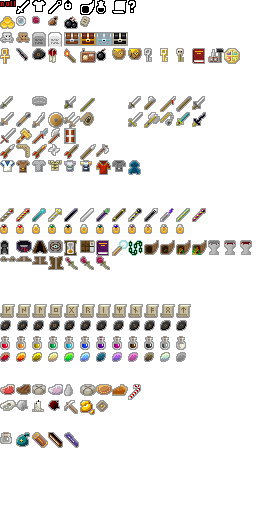
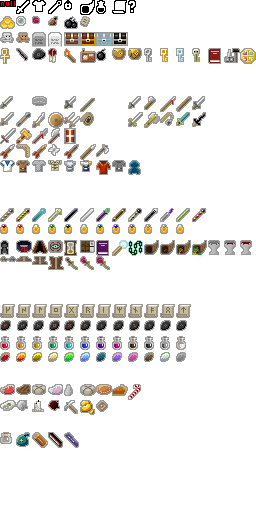
v0.6.2: implemented crystal keys, adjusted vault room, and added gold chests to regular drops

Changed region(s): [[0.75, 0.0938, 1.0, 0.125], [0.6875, 0.0938, 0.7188, 0.125]]

diff --git a/core/src/main/java/com/shatteredpixel/shatteredpixeldungeon/actors/hero/Hero.java b/core/src/main/java/com/shatteredpixel/shatteredpixeldungeon/actors/hero/Hero.java
@@ -73,6 +73,7 @@ import com.shatteredpixel.shatteredpixeldungeon.items.artifacts.EtherealChains;
 import com.shatteredpixel.shatteredpixeldungeon.items.artifacts.HornOfPlenty;
 import com.shatteredpixel.shatteredpixeldungeon.items.artifacts.TalismanOfForesight;
 import com.shatteredpixel.shatteredpixeldungeon.items.artifacts.TimekeepersHourglass;
+import com.shatteredpixel.shatteredpixeldungeon.items.keys.CrystalKey;
 import com.shatteredpixel.shatteredpixeldungeon.items.keys.GoldenKey;
 import com.shatteredpixel.shatteredpixeldungeon.items.keys.IronKey;
 import com.shatteredpixel.shatteredpixeldungeon.items.keys.Key;
@@ -726,8 +727,8 @@ public class Hero extends Char {
 			Heap heap = Dungeon.level.heaps.get( dst );
 			if (heap != null && (heap.type != Type.HEAP && heap.type != Type.FOR_SALE)) {
 				
-				if ((heap.type == Type.LOCKED_CHEST || heap.type == Type.CRYSTAL_CHEST)
-						&& Notes.keyCount(new GoldenKey(Dungeon.depth)) < 1) {
+				if ((heap.type == Type.LOCKED_CHEST && Notes.keyCount(new GoldenKey(Dungeon.depth)) < 1)
+					|| (heap.type == Type.CRYSTAL_CHEST && Notes.keyCount(new CrystalKey(Dungeon.depth)) < 1)){
 
 						GLog.w( Messages.get(this, "locked_chest") );
 						ready();
@@ -1476,8 +1477,10 @@ public class Hero extends Char {
 			Heap heap = Dungeon.level.heaps.get( ((HeroAction.OpenChest)curAction).dst );
 			if (heap.type == Type.SKELETON || heap.type == Type.REMAINS) {
 				Sample.INSTANCE.play( Assets.SND_BONES );
-			} else if (heap.type == Type.LOCKED_CHEST || heap.type == Type.CRYSTAL_CHEST){
+			} else if (heap.type == Type.LOCKED_CHEST){
 				Notes.remove(new GoldenKey(Dungeon.depth));
+			} else if (heap.type == Type.CRYSTAL_CHEST){
+				Notes.remove(new CrystalKey(Dungeon.depth));
 			}
 			StatusPane.needsKeyUpdate = true;
 			heap.open( this );

diff --git a/core/src/main/java/com/shatteredpixel/shatteredpixeldungeon/levels/rooms/special/VaultRoom.java b/core/src/main/java/com/shatteredpixel/shatteredpixeldungeon/levels/rooms/special/VaultRoom.java
@@ -25,7 +25,7 @@ import com.shatteredpixel.shatteredpixeldungeon.Dungeon;
 import com.shatteredpixel.shatteredpixeldungeon.items.Generator;
 import com.shatteredpixel.shatteredpixeldungeon.items.Heap;
 import com.shatteredpixel.shatteredpixeldungeon.items.Item;
-import com.shatteredpixel.shatteredpixeldungeon.items.keys.GoldenKey;
+import com.shatteredpixel.shatteredpixeldungeon.items.keys.CrystalKey;
 import com.shatteredpixel.shatteredpixeldungeon.items.keys.IronKey;
 import com.shatteredpixel.shatteredpixeldungeon.levels.Level;
 import com.shatteredpixel.shatteredpixeldungeon.levels.Terrain;
@@ -50,29 +50,14 @@ public class VaultRoom extends SpecialRoom {
 		
 		Random.shuffle(prizeClasses);
 		
-		switch (Random.Int( 3 )) {
-		
-		case 0:
-			level.drop( prize( level ), c ).type = Heap.Type.LOCKED_CHEST;
-			level.addItemToSpawn( new GoldenKey( Dungeon.depth ) );
-			break;
-			
-		case 1:
-			Item i1, i2;
-			do {
-				i1 = prize( level );
-				i2 = prize( level );
-			} while (i1.getClass() == i2.getClass());
-			level.drop( i1, c ).type = Heap.Type.CRYSTAL_CHEST;
-			level.drop( i2, c + PathFinder.NEIGHBOURS8[Random.Int( 8 )]).type = Heap.Type.CRYSTAL_CHEST;
-			level.addItemToSpawn( new GoldenKey( Dungeon.depth ) );
-			break;
-			
-		case 2:
-			level.drop( prize( level ), c );
-			Painter.set( level, c, Terrain.PEDESTAL );
-			break;
-		}
+		Item i1, i2;
+		do {
+			i1 = prize( level );
+			i2 = prize( level );
+		} while (i1.getClass() == i2.getClass());
+		level.drop( i1, c ).type = Heap.Type.CRYSTAL_CHEST;
+		level.drop( i2, c + PathFinder.NEIGHBOURS8[Random.Int( 8 )]).type = Heap.Type.CRYSTAL_CHEST;
+		level.addItemToSpawn( new CrystalKey( Dungeon.depth ) );
 		
 		entrance().set( Door.Type.LOCKED );
 		level.addItemToSpawn( new IronKey( Dungeon.depth ) );

diff --git a/core/src/main/java/com/shatteredpixel/shatteredpixeldungeon/levels/RegularLevel.java b/core/src/main/java/com/shatteredpixel/shatteredpixeldungeon/levels/RegularLevel.java
@@ -30,7 +30,9 @@ import com.shatteredpixel.shatteredpixeldungeon.actors.mobs.Mob;
 import com.shatteredpixel.shatteredpixeldungeon.items.Generator;
 import com.shatteredpixel.shatteredpixeldungeon.items.Heap;
 import com.shatteredpixel.shatteredpixeldungeon.items.Item;
+import com.shatteredpixel.shatteredpixeldungeon.items.artifacts.Artifact;
 import com.shatteredpixel.shatteredpixeldungeon.items.journal.GuidePage;
+import com.shatteredpixel.shatteredpixeldungeon.items.keys.GoldenKey;
 import com.shatteredpixel.shatteredpixeldungeon.items.potions.Potion;
 import com.shatteredpixel.shatteredpixeldungeon.items.scrolls.Scroll;
 import com.shatteredpixel.shatteredpixeldungeon.journal.Document;
@@ -318,7 +320,16 @@ public abstract class RegularLevel extends Level {
 				map[cell] = Terrain.GRASS;
 				losBlocking[cell] = false;
 			}
-			drop( Generator.random(), cell ).type = type;
+			
+			Item toDrop = Generator.random();
+			if ((toDrop instanceof Artifact && Random.Int(2) > 0) ||
+					(toDrop.isUpgradable() && Random.Int(2 + toDrop.level()) > 0)){
+				drop( toDrop, cell ).type = Heap.Type.LOCKED_CHEST;
+				addItemToSpawn(new GoldenKey(Dungeon.depth));
+			} else {
+				drop( toDrop, cell ).type = type;
+			}
+			
 		}
 
 		for (Item item : itemsToSpawn) {

diff --git a/core/src/main/java/com/shatteredpixel/shatteredpixeldungeon/sprites/ItemSpriteSheet.java b/core/src/main/java/com/shatteredpixel/shatteredpixeldungeon/sprites/ItemSpriteSheet.java
@@ -106,10 +106,11 @@ public class ItemSpriteSheet {
 	public static final int SHATTPOT        = SINGLE_USE+8;
 	public static final int IRON_KEY        = SINGLE_USE+9;
 	public static final int GOLDEN_KEY      = SINGLE_USE+10;
-	public static final int SKELETON_KEY    = SINGLE_USE+11;
-	public static final int MASTERY         = SINGLE_USE+12;
-	public static final int KIT             = SINGLE_USE+13;
-	public static final int AMULET          = SINGLE_USE+14;
+	public static final int CRYSTAL_KEY     = SINGLE_USE+11;
+	public static final int SKELETON_KEY    = SINGLE_USE+13;
+	public static final int MASTERY         = SINGLE_USE+14;
+	public static final int KIT             = SINGLE_USE+15;
+	public static final int AMULET          = SINGLE_USE+16;
 	static{
 		assignItemRect(ANKH,            10, 16);
 		assignItemRect(STYLUS,          12, 13);
@@ -122,6 +123,7 @@ public class ItemSpriteSheet {
 		assignItemRect(SHATTPOT,        14, 12);
 		assignItemRect(IRON_KEY,        8,  14);
 		assignItemRect(GOLDEN_KEY,      8,  14);
+		assignItemRect(CRYSTAL_KEY,     8,  14);
 		assignItemRect(SKELETON_KEY,    8,  14);
 		assignItemRect(MASTERY,         13, 16);
 		assignItemRect(KIT,             16, 15);

diff --git a/core/src/main/java/com/shatteredpixel/shatteredpixeldungeon/items/keys/CrystalKey.java b/core/src/main/java/com/shatteredpixel/shatteredpixeldungeon/items/keys/CrystalKey.java
@@ -1,0 +1,41 @@
+/*
+ * Pixel Dungeon
+ * Copyright (C) 2012-2015  Oleg Dolya
+ *
+ * Shattered Pixel Dungeon
+ * Copyright (C) 2014-2017 Evan Debenham
+ *
+ * This program is free software: you can redistribute it and/or modify
+ * it under the terms of the GNU General Public License as published by
+ * the Free Software Foundation, either version 3 of the License, or
+ * (at your option) any later version.
+ *
+ * This program is distributed in the hope that it will be useful,
+ * but WITHOUT ANY WARRANTY; without even the implied warranty of
+ * MERCHANTABILITY or FITNESS FOR A PARTICULAR PURPOSE.  See the
+ * GNU General Public License for more details.
+ *
+ * You should have received a copy of the GNU General Public License
+ * along with this program.  If not, see <http://www.gnu.org/licenses/>
+ */
+
+package com.shatteredpixel.shatteredpixeldungeon.items.keys;
+
+import com.shatteredpixel.shatteredpixeldungeon.sprites.ItemSpriteSheet;
+
+public class CrystalKey extends Key {
+	
+	{
+		image = ItemSpriteSheet.CRYSTAL_KEY;
+	}
+	
+	public CrystalKey() {
+		this( 0 );
+	}
+	
+	public CrystalKey( int depth ) {
+		super();
+		this.depth = depth;
+	}
+	
+}
